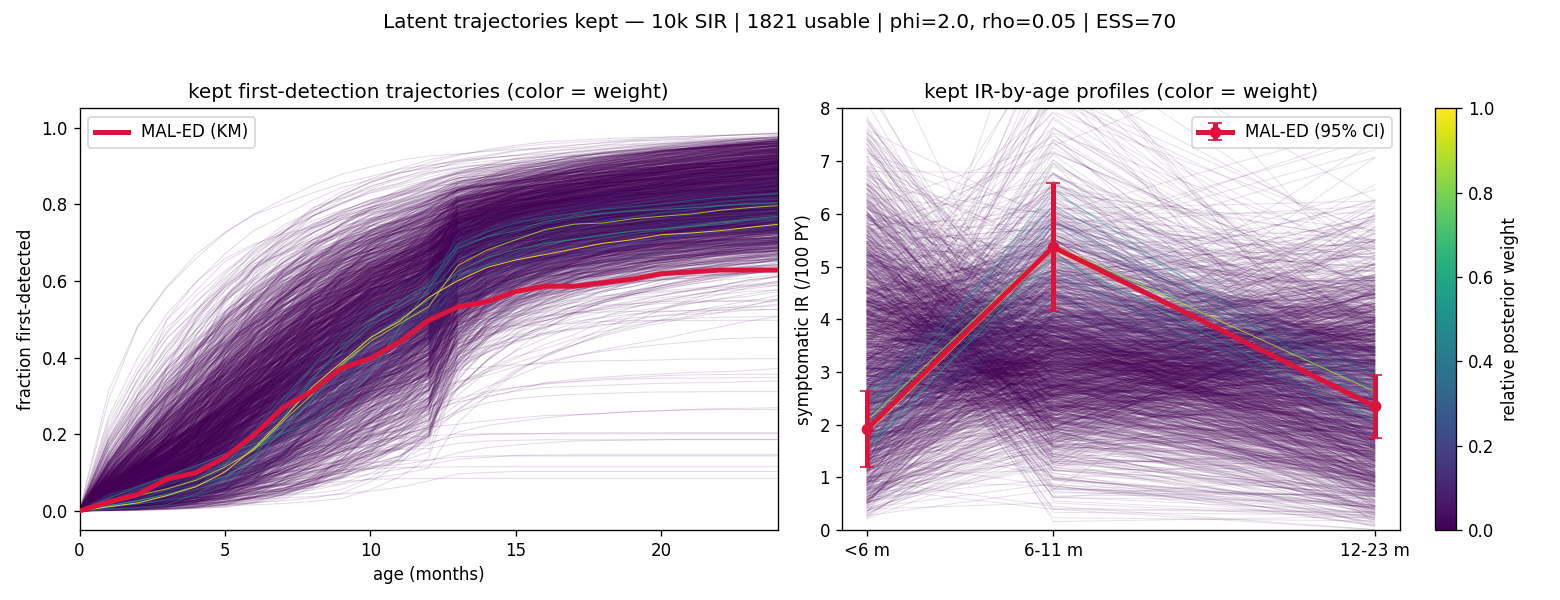
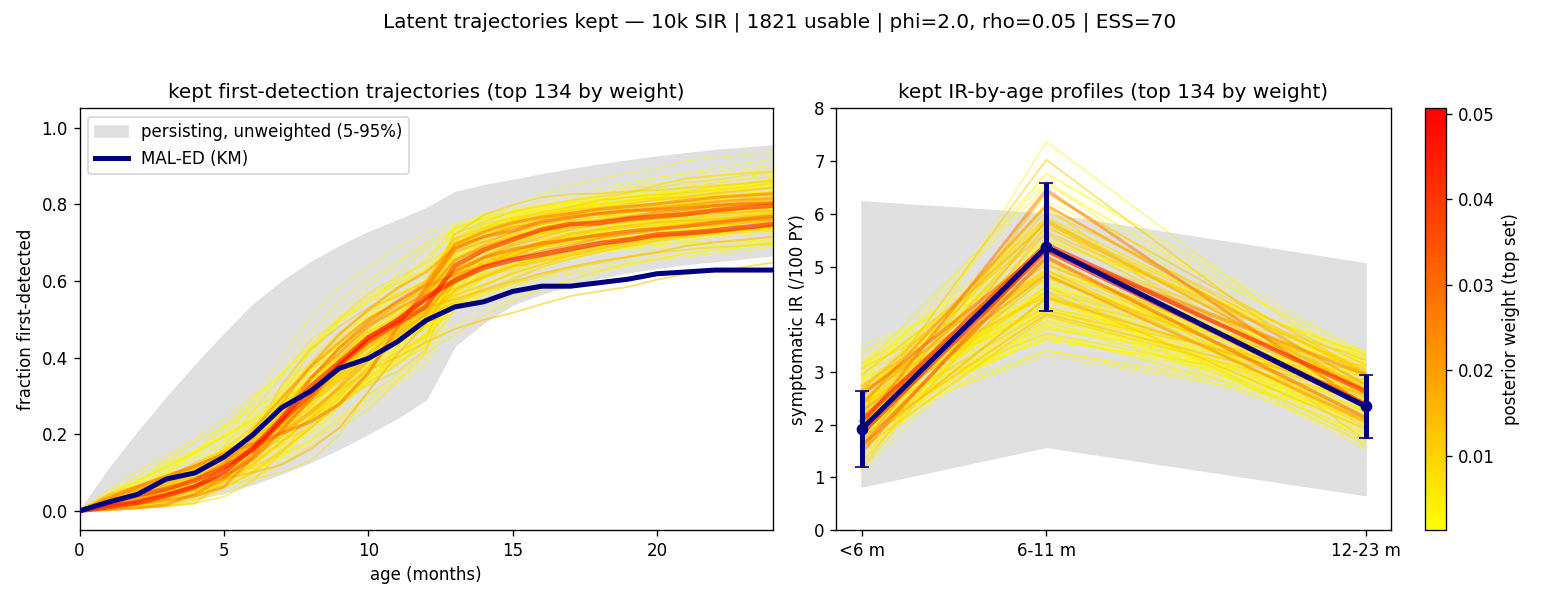
Exp 07: fix fig_trajectories legibility — envelope + high-weight overplot, dedup legend
Replace the dark-purple low-weight wash (1821 trajectories, ESS~70) with a soft gray
5-95% envelope of the PERSISTING (finite-likelihood) sims for context, then overplot only
the top trajectories carrying ~90% of posterior weight in a hot colormap, thickness scaled
by weight; data in navy. Relabel envelope 'persisting, unweighted'; legend on left panel only.

diff --git a/experiments/07_history_matching/plot_diagnostics.py b/experiments/07_history_matching/plot_diagnostics.py
@@ -96,27 +96,43 @@ def main():
             j += 1
         dataS.append(surv)
     dataS = np.array(dataS)
-    order = usable[np.argsort(wn)]                               # low weight first (drawn under)
-    for k in order:
+    # Most kept trajectories have tiny weight (ESS~70 of 1821); plotting them all swamps
+    # the figure. Show the full kept set as a soft 5-95% envelope (context), then overplot
+    # only the HIGH-weight trajectories (those carrying ~90% of posterior mass) in a hot
+    # colormap with weight-scaled thickness, so the ones that matter stand out.
+    sortw = usable[np.argsort(w[usable])[::-1]]
+    cw = np.cumsum(w[sortw]); top = sortw[:max(np.searchsorted(cw, 0.90) + 1, 40)]
+    cmap = plt.cm.autumn_r
+    wtop = w[top]; tnorm = Normalize(wtop.min(), wtop.max())
+
+    def km_curve(k):
         ks = recs[k].get('km_surv')
-        if ks and len(ks) == len(GRID):
-            a1.plot(GRID, 1 - np.array(ks), color=plt.cm.viridis(w[k] / w[usable].max()),
-                    alpha=0.15 + 0.7 * (w[k] / w[usable].max()), lw=0.6)
-    a1.plot(GRID, 1 - dataS, color='crimson', lw=3, label='MAL-ED (KM)', zorder=10)
+        return 1 - np.array(ks) if (ks and len(ks) == len(GRID)) else None
+
+    allc = np.array([c for c in (km_curve(k) for k in usable) if c is not None])
+    env = np.percentile(allc, [5, 95], axis=0)
+    a1.fill_between(GRID, env[0], env[1], color='0.88', label='persisting, unweighted (5-95%)')
+    for k in top[::-1]:                                           # highest weight drawn last/on top
+        c = km_curve(k)
+        if c is not None:
+            a1.plot(GRID, c, color=cmap(tnorm(w[k])), alpha=0.55, lw=0.6 + 2.4 * tnorm(w[k]))
+    a1.plot(GRID, 1 - dataS, color='navy', lw=3, label='MAL-ED (KM)', zorder=10)
     a1.set_xlim(0, 24); a1.set_xlabel('age (months)'); a1.set_ylabel('fraction first-detected')
-    a1.set_title('kept first-detection trajectories (color = weight)'); a1.legend()
+    a1.set_title(f'kept first-detection trajectories (top {len(top)} by weight)'); a1.legend()
     # IR-by-age profiles
-    for k in order:
+    allp = np.array([[recs[k][f'ir_symp_{b}'] for b, _, _ in IR] for k in usable])
+    penv = np.percentile(allp, [5, 95], axis=0)
+    a2.fill_between(AGE_MID, penv[0], penv[1], color='0.88', label='persisting, unweighted (5-95%)')
+    for k in top[::-1]:
         prof = [recs[k][f'ir_symp_{b}'] for b, _, _ in IR]
-        a2.plot(AGE_MID, prof, color=plt.cm.viridis(w[k] / w[usable].max()),
-                alpha=0.12 + 0.7 * (w[k] / w[usable].max()), lw=0.6)
+        a2.plot(AGE_MID, prof, color=cmap(tnorm(w[k])), alpha=0.55, lw=0.6 + 2.4 * tnorm(w[k]))
     a2.errorbar(AGE_MID, [TARGET[b] for b, _, _ in IR], yerr=[1.96 * TARGET_SE[b] for b, _, _ in IR],
-                fmt='o-', color='crimson', lw=3, capsize=4, label='MAL-ED (95% CI)', zorder=10)
+                fmt='o-', color='navy', lw=3, capsize=4, label='MAL-ED (95% CI)', zorder=10)
     a2.set_xticks(AGE_MID); a2.set_xticklabels(['<6 m', '6-11 m', '12-23 m'])
     a2.set_ylabel('symptomatic IR (/100 PY)'); a2.set_ylim(0, 8)
-    a2.set_title('kept IR-by-age profiles (color = weight)'); a2.legend()
-    sm = ScalarMappable(cmap='viridis', norm=Normalize(0, 1)); sm.set_array([])
-    fig.colorbar(sm, ax=a2, label='relative posterior weight')
+    a2.set_title(f'kept IR-by-age profiles (top {len(top)} by weight)')
+    sm = ScalarMappable(cmap=cmap, norm=tnorm); sm.set_array([])
+    fig.colorbar(sm, ax=a2, label='posterior weight (top set)')
     fig.suptitle(f'Latent trajectories kept — {sub}'); fig.tight_layout(rect=[0, 0, 1, 0.96])
     fig.savefig(FIGDIR / 'fig_trajectories.png', dpi=120); plt.close(fig)
 
